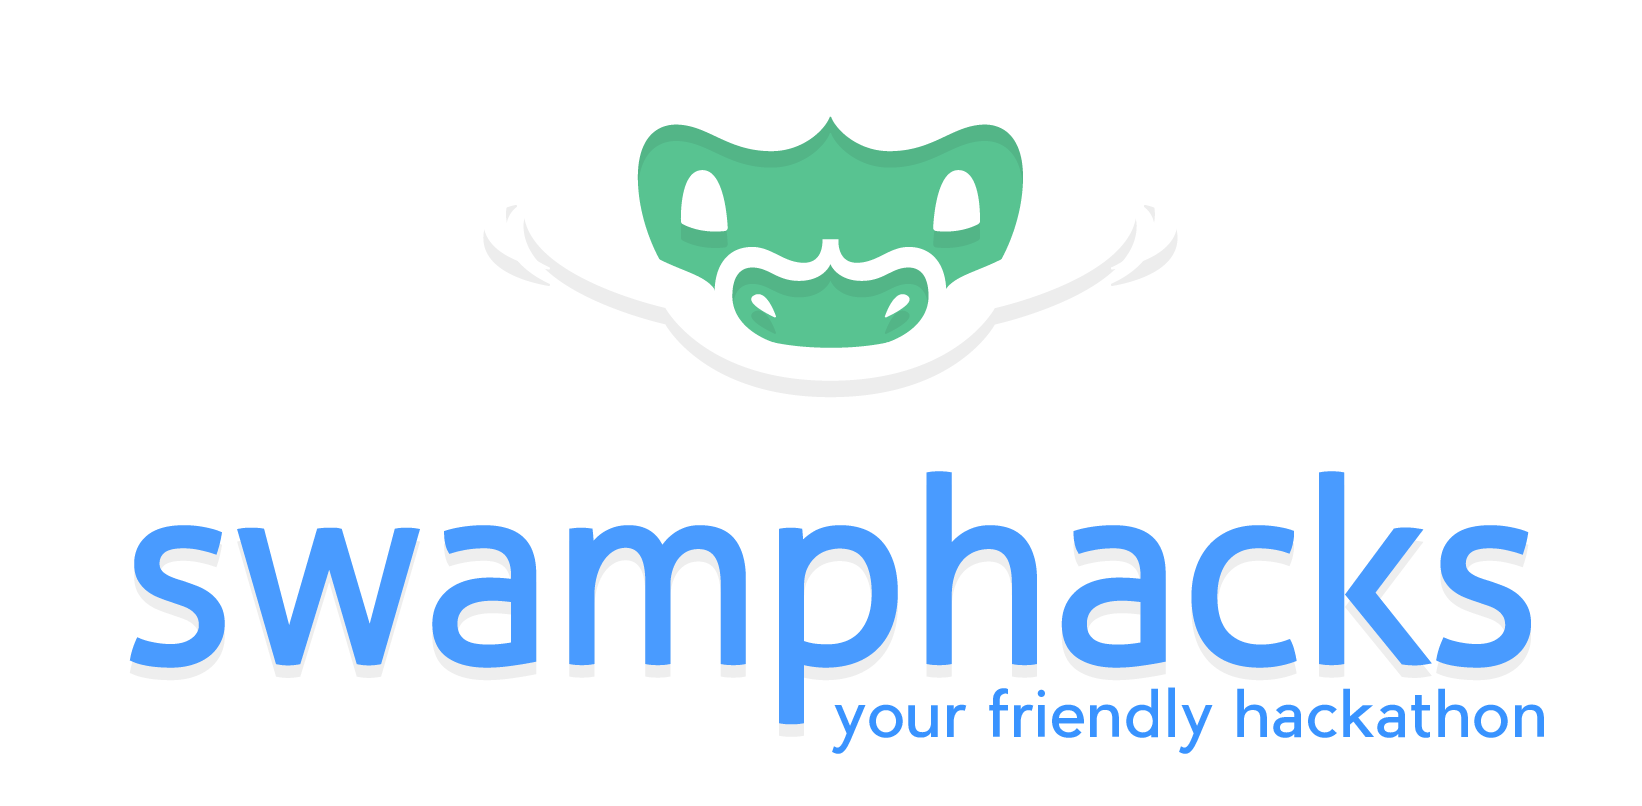
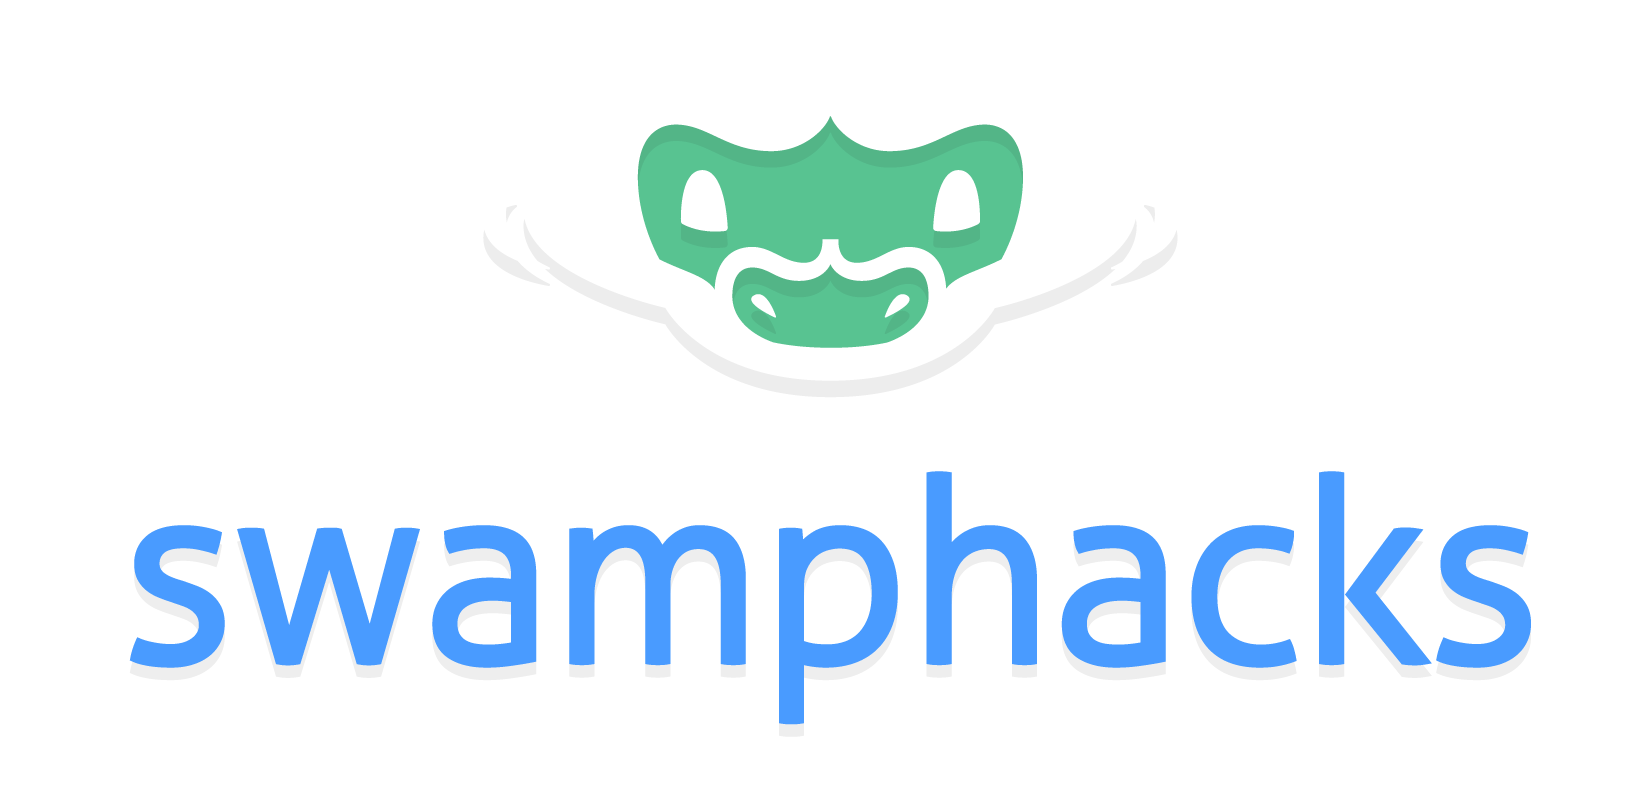
Removed tagline and fixed mobile view

Changed region(s): [[0.497, 0.8375, 0.9629, 0.9305]]

diff --git a/summary.html b/summary.html
@@ -109,7 +109,7 @@
   <img class="white-divider flipped" src="img/swamphacks_top-border.png" alt="" />
 
   <div class="col-sm-10 col-sm-offset-1 stats-header">
-    <h3>Previously at SwampHacks</h3>
+    <h3>Previously at SwampHacks...</h3>
   </div>
   <div class="row stats-row">
     <div class="col-xs-12 col-sm-5">
@@ -151,7 +151,7 @@
 
 <section class="nextYear">
   <div class="col-sm-10 col-sm-offset-1 stats-header">
-    <h3>Previously at SwampHacks</h3>
+    <h3>What’s new with SwampHacks 2017?</h3>
   </div>
   <div class="row stats-row">
     <div class="col-xs-12 col-sm-5">
@@ -196,7 +196,7 @@ we are increasing our projected attendees by only 100 and investing our funds in
 <section>
   <div class="row wrapper testimonial-page">
     <div class="col-sm-10 col-sm-offset-1 stats-header testimonials">
-      <h3>How did you like SwampHacks?</h3>
+      <h3>How did some of our past sponsors like it?</h3>
     </div>
 
   <div class="row testimonial">
@@ -242,20 +242,26 @@ we are increasing our projected attendees by only 100 and investing our funds in
     <img class="white-divider flipped" src="img/swamphacks_round-border.png" alt="" />
     <div class="col-xs-12 col-sm-6">
       <div class="action-buttons-house">
-        <h4>want to get involved?</h4>
-        <input class="pre-reg-button" type="button" value="sponsor us">
+        <h4>Want to get involved?</h4>
+        <a href="mailto:sponsors@swamphacks.com">
+          <input class="pre-reg-button" type="button" value="sponsor us">
+        </a>
       </div>
     </div>
 
     <div class="col-xs-12 col-sm-6">
       <div class="action-buttons-house">
-        <h4>go here for even more SwampHacks</h4>
+        <h4>Explore here for even more SwampHacks</h4>
         <div class="social-row">
           <a href="http://swamphacks.com" target="_blank">
             <img class="social-media" src="img/sh_swamphacks.png" alt="" />
           </a>
-          <img class="social-media" src="img/sh_facebook.png" alt="" />
-          <img class="social-media" src="img/sh_twitter.png" alt="" />
+          <a href="https://www.facebook.com/SwampHacks" target="_blank">
+            <img class="social-media" src="img/sh_facebook.png" alt="" />
+          </a>
+          <a href="https://twitter.com/swamphacks" target="_blank">
+            <img class="social-media" src="img/sh_twitter.png" alt="" />
+          </a>
         </span>
           <!-- <input class="pre-reg-button social" type="button"></input> -->
         </div>

diff --git a/css/summary-styles.css b/css/summary-styles.css
@@ -10,11 +10,11 @@ html,body
     margin: 0px;
     padding: 0px;
     overflow-x: hidden;
+
 }
 
 body{
   font-family: 'Muli', sans-serif;
-  overflow-x:hidden;
   width: 100vw;
 }
 
@@ -237,7 +237,7 @@ p{
 
 .button {
   font-size: 28px;
-  color: #97fff2;
+  color: #7bffbd;
 }
 
 .action-buttons-house {
@@ -253,8 +253,12 @@ p{
   margin-top: 22px;
 }
 
-.action-buttons-house .social-media:hover {
+/*.action-buttons-house .social-media:hover {
   opacity: 0.8;
+}*/
+
+.footer-note a:hover {
+  opacity: 0.7;
 }
 
 .footer-note h4 {
@@ -269,7 +273,7 @@ p{
   height: 60px;
   margin: 0 50%;
   transform: translateX(-50%);
-  color: #97fff2;
+  color: #7bffbd;
   font-size: 20px;
 }
 
